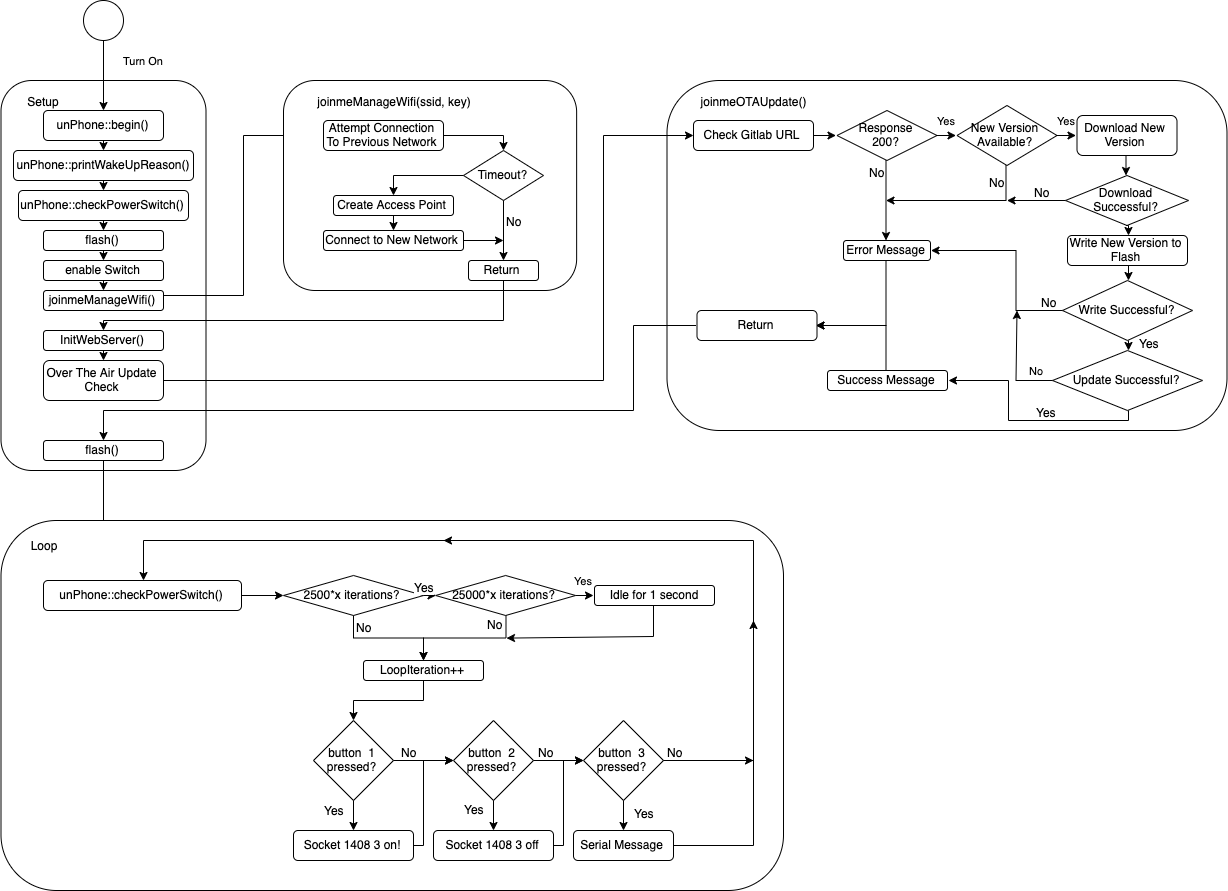
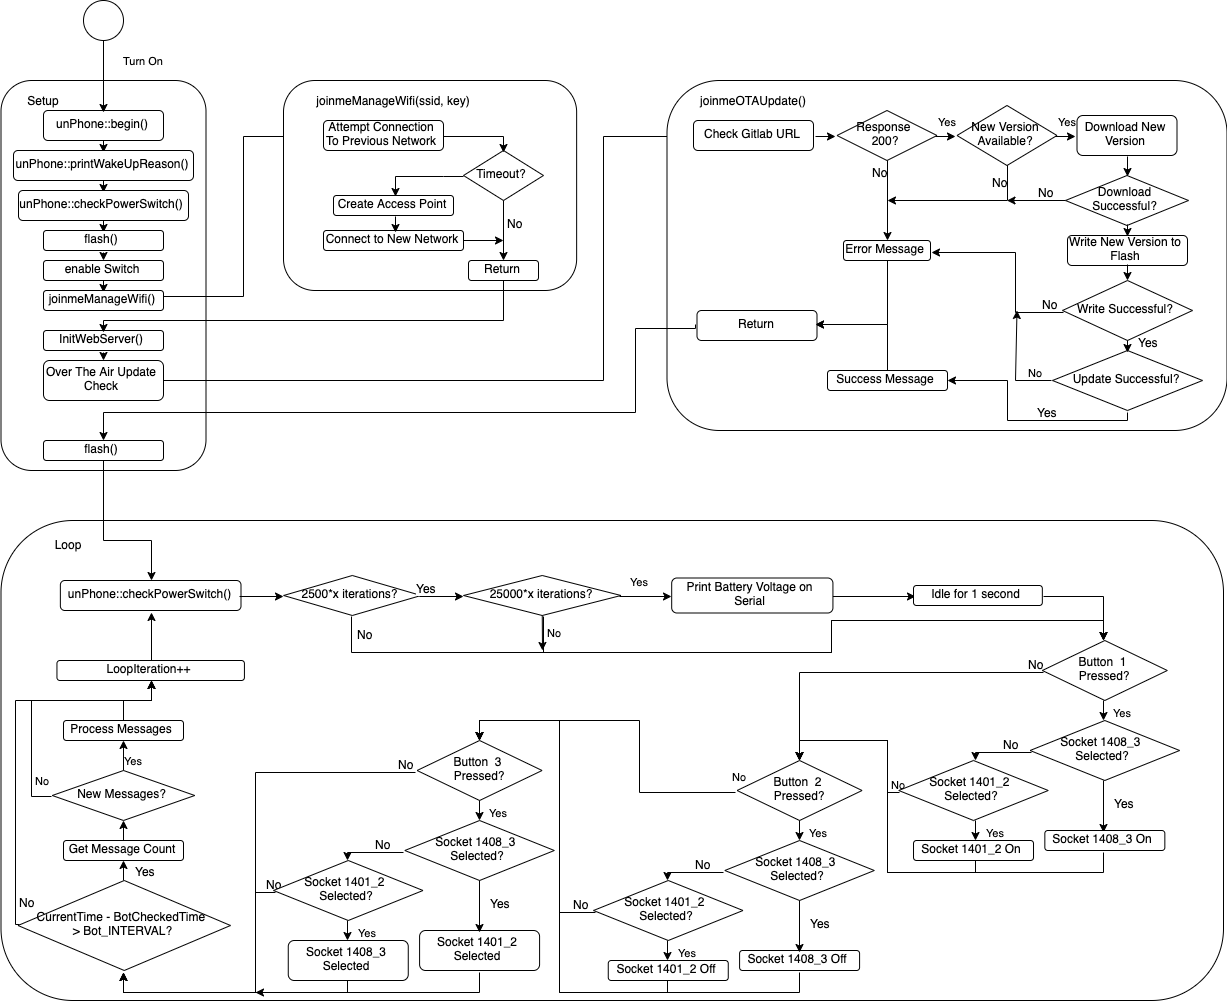
3rd button toggles sockets, text now reversed? (working on a fix)

diff --git a/MyProjectThing/main/main.cpp b/MyProjectThing/main/main.cpp
@@ -16,6 +16,7 @@
 #include <SPI.h>
 #include <Wire.h>
 #include <WiFi.h>
+#include <Adafruit_GFX.h>
 
 #include "private.h" // stuff not for checking in
 #include "unphone.h"
@@ -28,14 +29,14 @@
 #include <ArduinoJson.h>
 
 // OTA, MAC address, messaging, loop slicing//////////////////////////////////
-int firmwareVersion = 1; // keep up-to-date! (used to check for updates)
+int firmwareVersion = 2; // keep up-to-date! (used to check for updates)
 char *getMAC(char *);    // read the address into buffer
 char MAC_ADDRESS[13];    // MAC addresses are 12 chars, plus the NULL
 void flash();            // the RGB LED
 void loraMessage();      // TTN
-void lcdMessage(char *); // message on screen
+void lcdMessage(String); // message on screen
 int loopIter = 0;        // loop slices
-
+String buttonSocket = "1408_3";
 
 // globals for a wifi access point and webserver ////////////////////////////
 String apSSID = String("IoT-Sockets-"); // SSID of the AP
@@ -73,11 +74,7 @@ void socketSend(String, String, String, String&);
 void socketForm(String&, String, String);
 void apListForm(String&);
 void printIPs();
-void showLog(AsyncWebServerRequest *);
-void log(String);
-void convertDateTime(String &);
 
-String dataLog = "<div class='datalog'>";   // Start datalog string with div class
 
 /* SETUP: initialisation entry point
  *
@@ -93,7 +90,8 @@ void setup() {
     // power management
     unPhone::printWakeupReason(); // what woke us up?
     unPhone::checkPowerSwitch();  // if power switch is off, shutdown
-
+    unPhone::tftp->fillScreen(HX8357_BLACK);
+    unPhone::tftp->setRotation(2);
     // flash the internal RGB LED
     flash();
 
@@ -105,6 +103,7 @@ void setup() {
     apSSID.concat(MAC_ADDRESS);
     Serial.printf("\nSetup...\nESP32 MAC = %s\n", MAC_ADDRESS);
     Serial.printf("WiFi Manager...\n");
+    lcdMessage("Joining WiFi Network...");
     joinmeManageWiFi(apSSID.c_str(), apPassword.c_str()); // get network connection
     Serial.printf("WiFi Manager Done!\n\n");
   
@@ -112,7 +111,7 @@ void setup() {
     webServer = new AsyncWebServer(80);
     initWebServer();
     Serial.printf("Firmware Version: %d\n", firmwareVersion);
-    
+    lcdMessage("Checking for Updates...");
     // Check for and perform OTA firmware update
     vTaskDelay(2000/ portTICK_PERIOD_MS);
     joinmeOTAUpdate(
@@ -128,9 +127,7 @@ void setup() {
     getMAC(MAC_ADDRESS);          // store the MAC address
     Serial.printf("\nsetup...\nESP32 MAC = %s\n", MAC_ADDRESS);
     Serial.printf("battery voltage = %3.3f\n", unPhone::batteryVoltage());
-    log("<p>setup...ESP32 MAC =" + String(MAC_ADDRESS) + "</p>");
-    log("<p>Battery Voltage = " + String(unPhone::batteryVoltage()) + "</p>");
-    //lcdMessage("hello from " + WiFi.localIP().c_str()); // say hello on screen
+    lcdMessage("hello from " + ip2str(WiFi.localIP())); // say hello on screen
      
     flash(); // flash the internal RGB LED
 }
@@ -160,26 +157,54 @@ void loop() {
                 {
                     D("Completed Loop %d, yielding 10000th time time last\n", loopIter);
                     Serial.printf("battery voltage = %3.3f\n", unPhone::batteryVoltage());
-                    log("Battery Voltage = " + String(unPhone::batteryVoltage()) + "</p>");
                 }
             }
             delay(100); // 100 appears min to allow IDLE task to fire
         }
-        loopIter++;
+        
 
-        // register button presses
+        // button 1, turn on selected socket
         if(unPhone::button1())
         {
-            plug2On();
-            Serial.println("Socket 3 On!");
-            lcdMessage("Socket 3 On!");
+            if (strcmp(buttonSocket.c_str(),"1408_3") == 0)
+            {
+                plug3On();
+            }
+            else if (strcmp(buttonSocket.c_str(), "1401_2") == 0)
+            {
+                plug2On();
+            }
+            // Debug message on serial and lcd
+            Serial.println("Socket " + buttonSocket + " On!");
+            lcdMessage("Socket " + buttonSocket + " On!");
         }
+        // Button 2, turn off selected socket
         if(unPhone::button2())
         {
-            plug2Off();
-            Serial.println("Socket 3 Off");
-            lcdMessage("Socket 3 Off!");
+            if (strcmp(buttonSocket.c_str(), "1408_3") ==0)
+            {
+                plug3Off();
+            }
+            else if (strcmp(buttonSocket.c_str(), "1401_2")==0)
+                plug2Off();
+            // Debug message on serial and lcd
+            Serial.println("Socket " + buttonSocket + " Off");
+            lcdMessage("Socket " + buttonSocket + " Off");
         }
+        
+        // 3rd Button to toggle sockets
+        if(unPhone::button3())
+        {
+            // If already on socket 1408 3, change to socket 1401 2
+            if (strcmp(buttonSocket.c_str(), "1408_3") ==0)
+                buttonSocket = "1401_2";
+            else
+                buttonSocket = "1408_3";
+            // Print message on serial and lcd
+            Serial.println("Socket " + buttonSocket + " Chosen");
+            lcdMessage("Socket " + buttonSocket + " Chosen");
+        }
+        
         
       //Telegram 
       currentBotTime = millis();
@@ -193,18 +218,10 @@ void loop() {
         if (numNewMessages > 0)
           handleNewMessages(numNewMessages); 
       }
+        loopIter++;
     }
-
 }
 
-/* LOG FUNCTION
- *
- * adds input string to end of datalog string
- *
- */
-void log(String s){
-    dataLog += s;
-}
 
 // misc utilities ////////////////////////////////////////////////////////////
 // get the ESP's MAC address
@@ -223,7 +240,7 @@ char *getMAC(char *buf) { // the MAC is 6 bytes; needs careful conversion...
 }
 
 // message on LCD
-void lcdMessage(char *s) {
+void lcdMessage(String s) {
     unPhone::tftp->setCursor(0, 465);
     unPhone::tftp->setTextSize(2);
     unPhone::tftp->setTextColor(HX8357_CYAN, HX8357_BLACK);
@@ -263,8 +280,7 @@ const char *templatePage[] = {    // we'll use Ex07 templating to build pages
     "<meta charset='utf-8'>",                                             //  3
     "<meta name='viewport' content='width=device-width, initial-scale=1.0'>\n"
     "<style>body{background:#FFF; color: #000; font-family: sans-serif;", //  4
-    "font-size: 150%;} p{margin: 0pt;} .datalog{background:#b2b2b2; ",
-    "font-size: 60%, margin: 2vw; padding: 2vw;}</style>\n",              //  5
+    "font-size: 150%;} p{margin: 0pt;}</style>\n",              //  5
     "</head><body>\n",                                                    //  6
     "<h2>Welcome to IoT Sockets!</h2>\n",                                 //  7
     "<!-- page payload goes here... -->\n",                               //  8
@@ -291,62 +307,10 @@ void initWebServer() { // changed naming conventions to avoid clash with Ex06
     webServer->on("/wifichz", hndlWifichz);    // landing page for AP form submit
     webServer->on("/wifi_status", hndlWifiStatus);      // status check, e.g. IP address
     webServer->on("/socket_send", hndlSocketChange);    // Send socket update to socket
-    webServer->on("/log", showLog);
     webServer->begin();
     dln(startupDBG, "HTTP server started");
 }
 
-/* SHOW LOG FUNCTION
- *
- * Function to show the data log on the wb server.
- * Effectively allows the user to track debug messages without needing serial connection.
- * Calculates uptime since turn on, then adds datalog to html string, then send html.
- *
- */
-void showLog(AsyncWebServerRequest *request){
-    log("<p>Up Time: ");
-    String time = "";
-    convertDateTime(time);
-    log(time);
-    log(" (dd:hh:mm:ss) - WARNING: Resets after 50 Days!</p>");
-    String s = dataLog.c_str();
-    s += "</div>";
-    replacement_t repls[] = { // the elements to replace in the boilerplate
-        {  1, "Data Log: "},
-        {  8, "" },
-        {  9,  s.c_str()},
-    };
-    String htmlPage = ""; // a String to hold the resultant page
-    GET_HTML(htmlPage, templatePage, repls);
-    request->send(200, "text/html", htmlPage);
-}
-
-/* Convert Date Time
- *
- * Given a string f, calculate time in days:hours:minutes:seconds:milliseconds and append to f.
- *
- */
-void convertDateTime(String &f){
-    unsigned long time = millis();  // Time in milliseconds since turn on (resets evert 50 days)
-    int millisec  = time % 100;    // Get  milliseconds portion of time
-    
-    int tseconds = time / 1000;    // Get time in seconds
-    int seconds = tseconds % 60;    // Get seconds portion by modulo on tseconds with 60
-    
-    int tminutes = tseconds / 60;   // Get total minutes by dividing seconds by 60
-    
-    int minutes = tminutes % 60;    // Get minutes of hour by modulo tminutes and 60
-    int thours = tminutes / 60;     // Get hour by dividing minutes by 60
-    int hours = thours % 24;        // number of hours
-    
-    int days = (thours / 24) % 50;  // Det number of dats
-    
-    f += days;                  // Append the values
-    f += ":" + hours;
-    f += ":" + minutes;
-    f += ":" + seconds;
-    f += "." + millisec;
-}
 
 
 // webserver handler callbacks
@@ -397,7 +361,7 @@ void hndlRoot(AsyncWebServerRequest *request) {
         {  1, apSSID.c_str() },
         {  8, "" },
         {  9,  s.c_str()},
-        { 10, "<p><a href='/wifi'>Wifi Settings</a>&nbsp;&nbsp;&nbsp;<a href='/log'>Log</a></p>" },
+        { 10, "<p><a href='/wifi'>Wifi Settings</a>&nbsp;&nbsp;&nbsp;</p>" },
     };
     String htmlPage = ""; // a String to hold the resultant page
     GET_HTML(htmlPage, templatePage, repls);

diff --git a/MyProjectThing/main/telegram.cpp b/MyProjectThing/main/telegram.cpp
@@ -60,9 +60,9 @@ void handleNewMessages(int numNewMessages)
 void setTelegramApiKey(String newTelegramApiKey){
     try {
         telegramApiKey = newTelegramApiKey;
-    };
-    catch {
-        resetTelegramApiKey
+    }
+    catch (...){
+        resetTelegramApiKey();
     };
 }
 

diff --git a/MyProjectThing/main/telegram.h b/MyProjectThing/main/telegram.h
@@ -11,5 +11,7 @@
 
 int checkMessages();
 void handleNewMessages(int);
+void setTelegramApiKey(String);
+void resetTelegramApiKey();
 
 #endif
